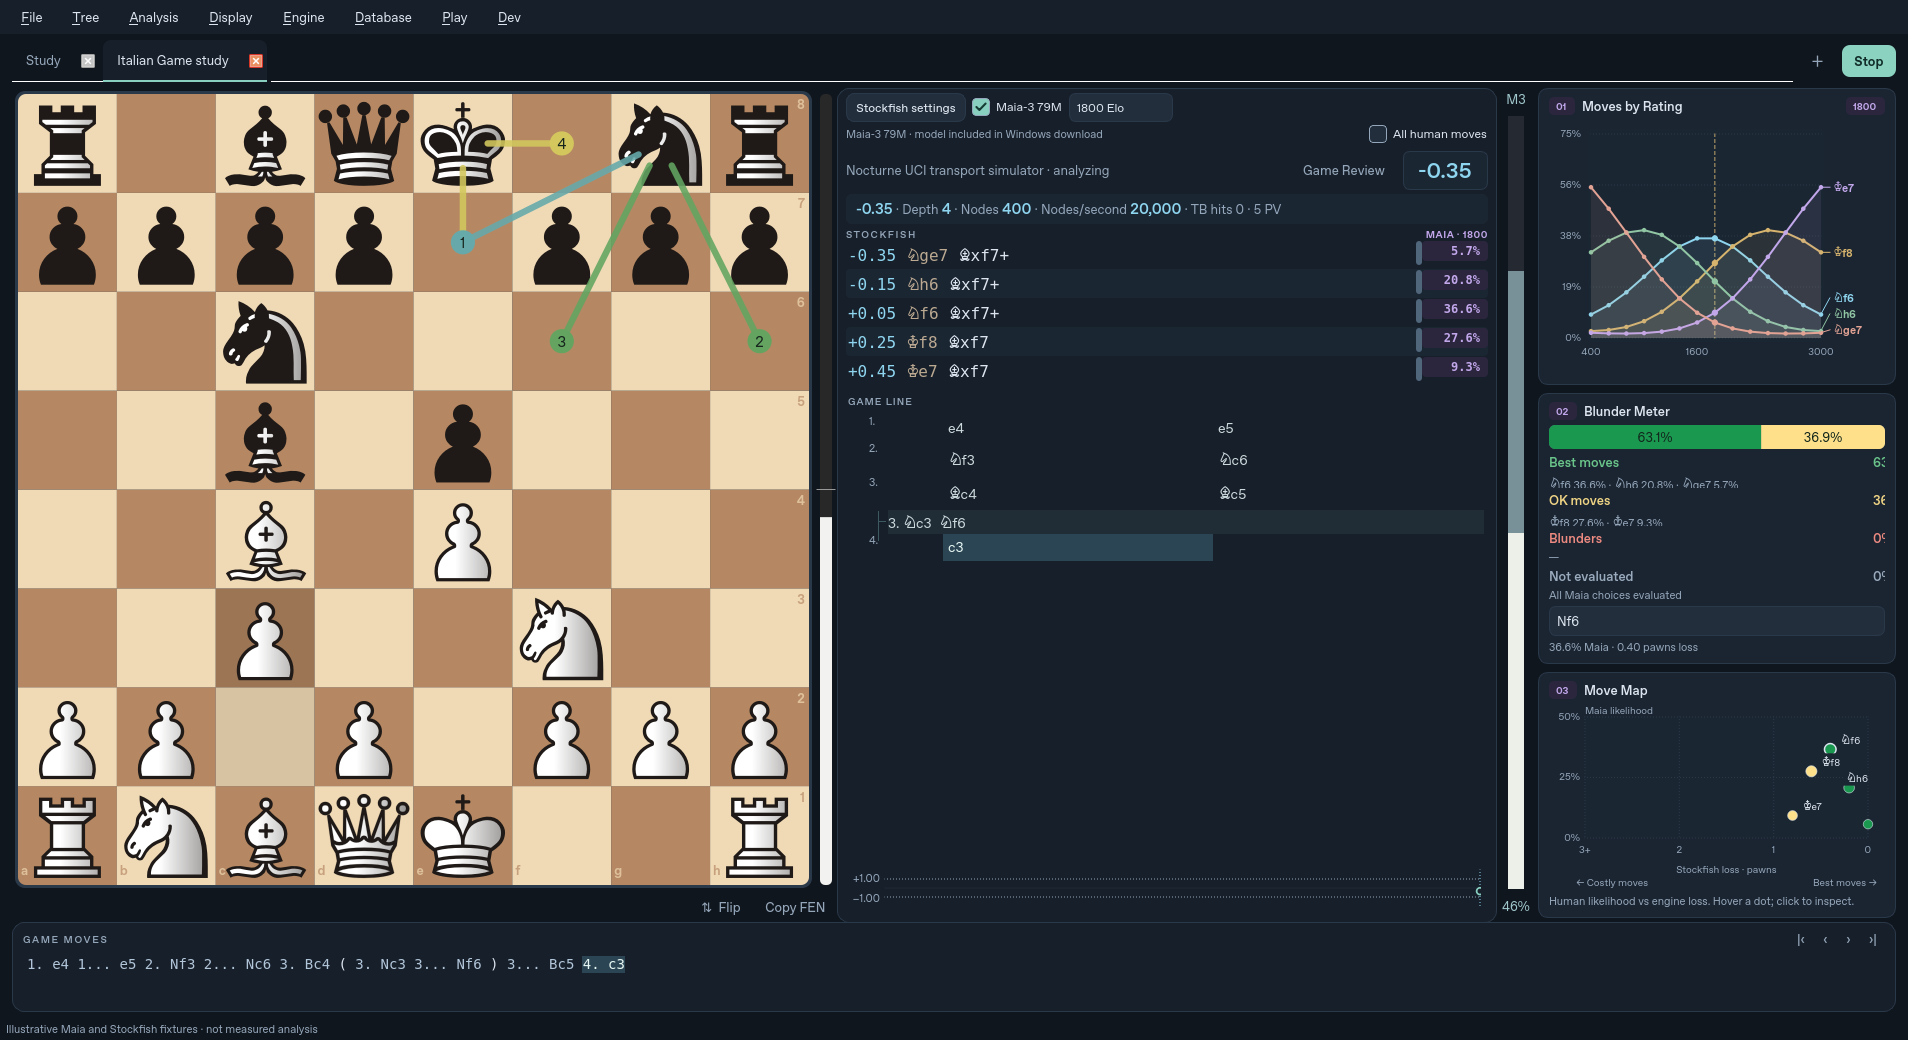
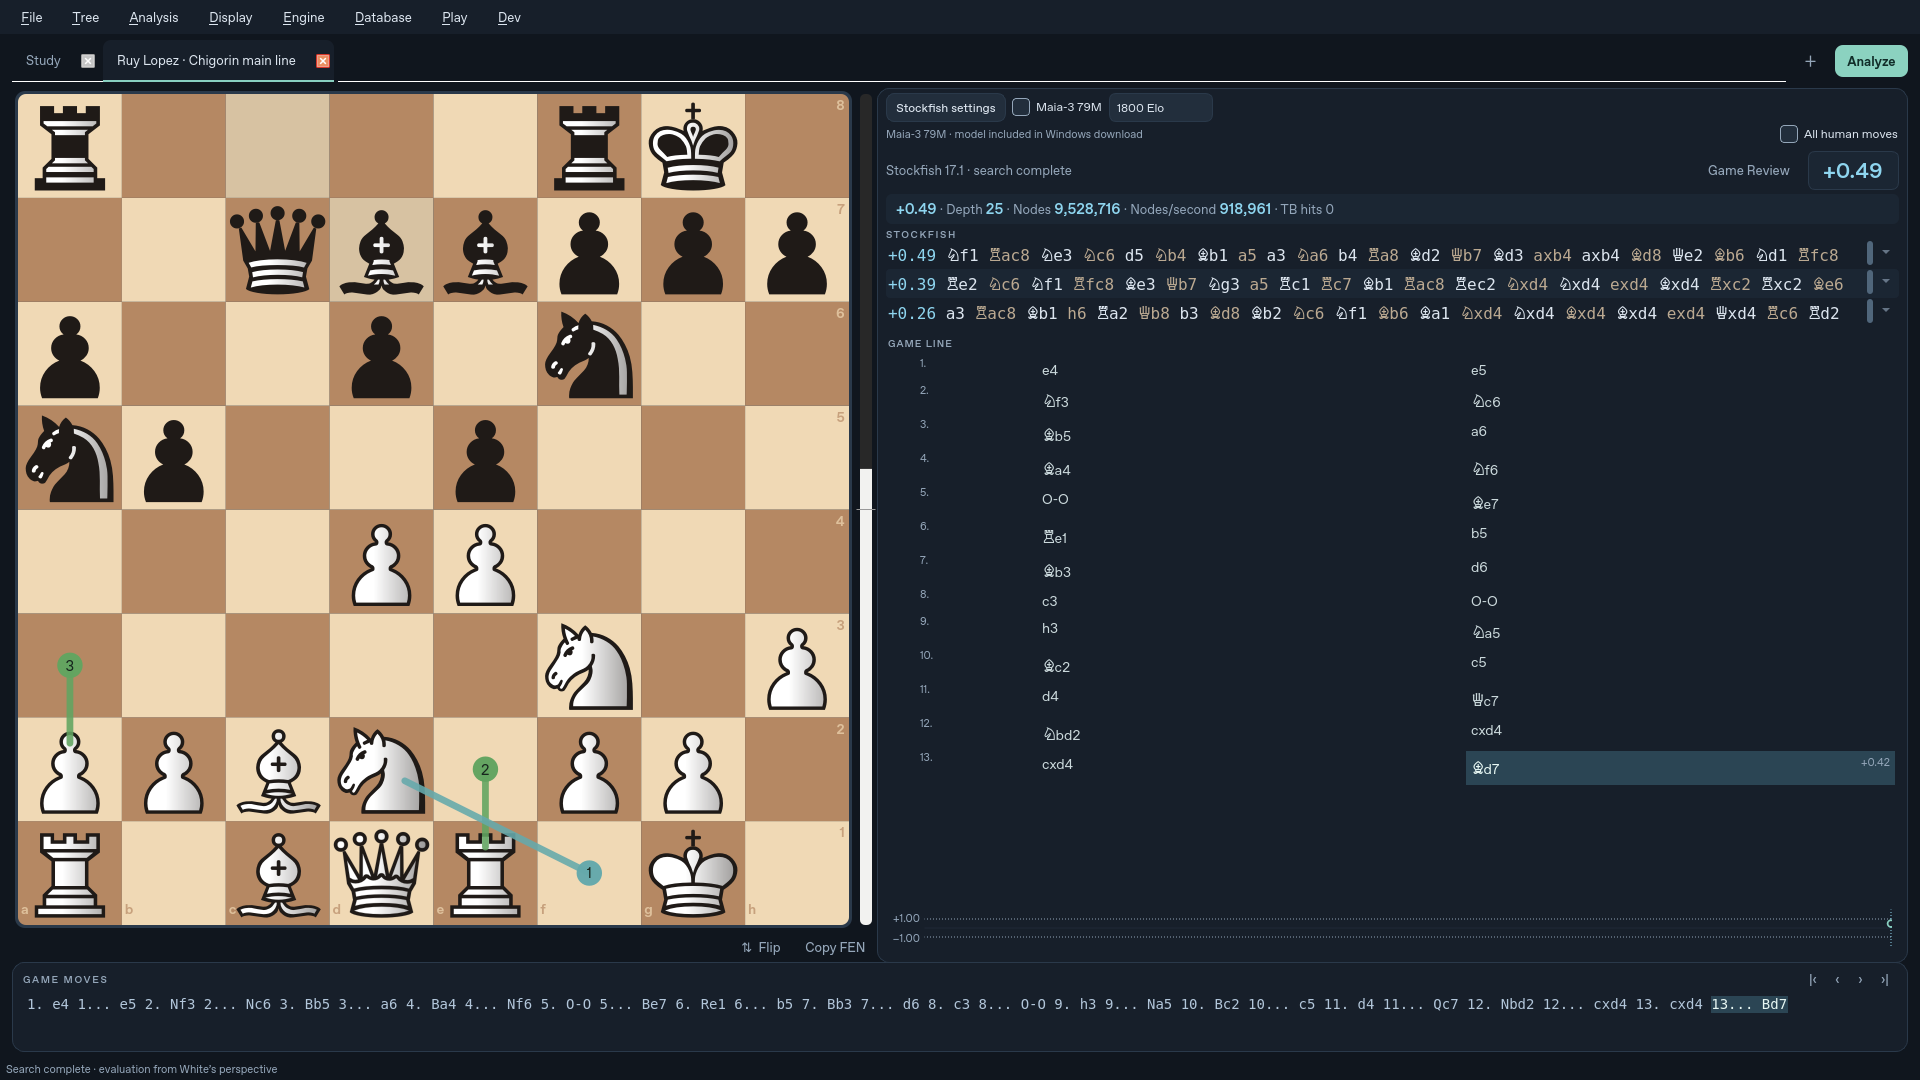
Refresh README preview with depth 25 analysis

diff --git a/README.md b/README.md
@@ -17,10 +17,9 @@ available. Database and graph visibility still follow their existing settings.
 The 0.5 direction replaces the earlier custom-engine product. Historical engine
 source/tests remain for reproducibility; they are excluded from the desktop bundle.
 
-![Nocturne's native analysis studio with a prominent board, integrated Stockfish and Maia rows, and three insight cards](docs/studio-ui.png)
+![Nocturne analyzing the Ruy Lopez Chigorin main line after 13...Bd7 with Stockfish 17.1 at depth 25](docs/studio-ui.png)
 
-*Native Qt UI preview. Engine evaluations and Maia probabilities in this
-capture are explicitly labelled fixtures, not measured chess analysis.*
+*Native Qt capture of the main line after 13...Bd7. Stockfish 17.1 NNUE reached depth 25 and reported +0.49 after 9,528,716 nodes. Maia is disabled in this capture.*
 
 
 **[Download 0.5.7.85 for Windows (unsigned, x64)](https://github.com/understandingothers789-pixel/nocturne-chess/actions/runs/40273139223/artifacts/12628584327): promote a Game Line variation from its context menu. Right-click an alternate move to make its line the mainline while keeping the previous mainline as an alternative, or promote it and delete the previous mainline.** Full Windows tests and packaged smoke checks passed. The artifact expires November 25, 2026.
